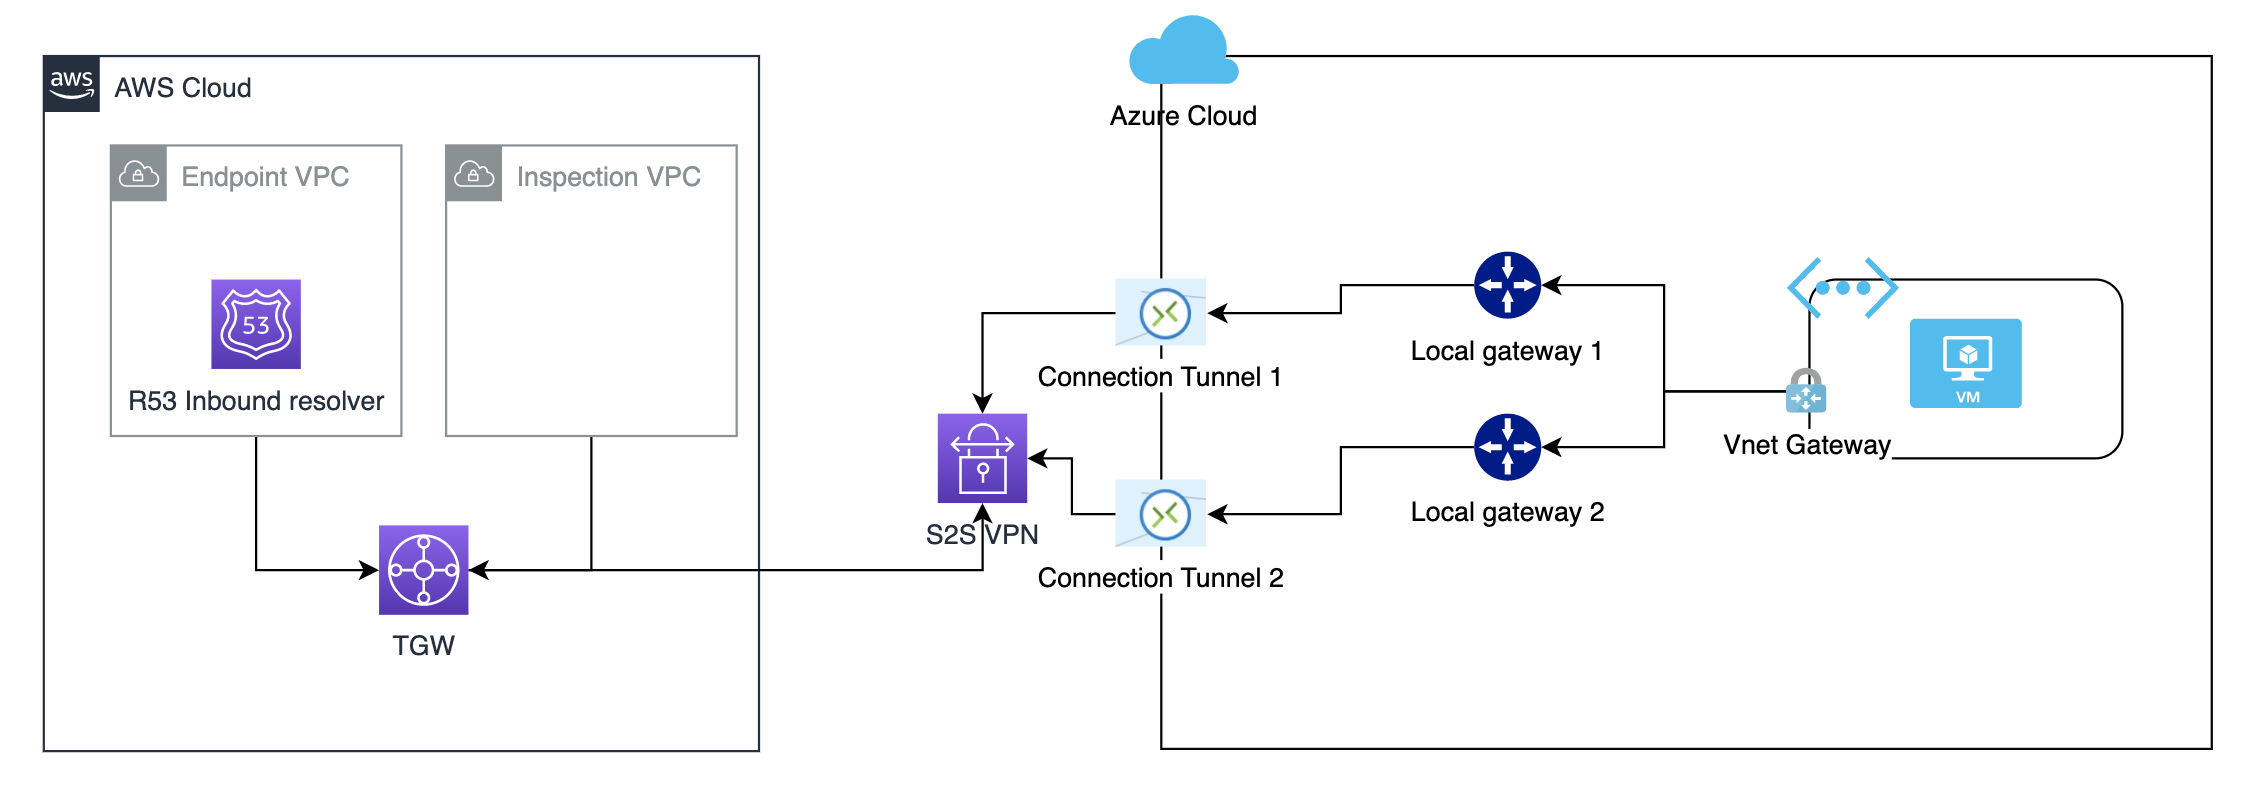
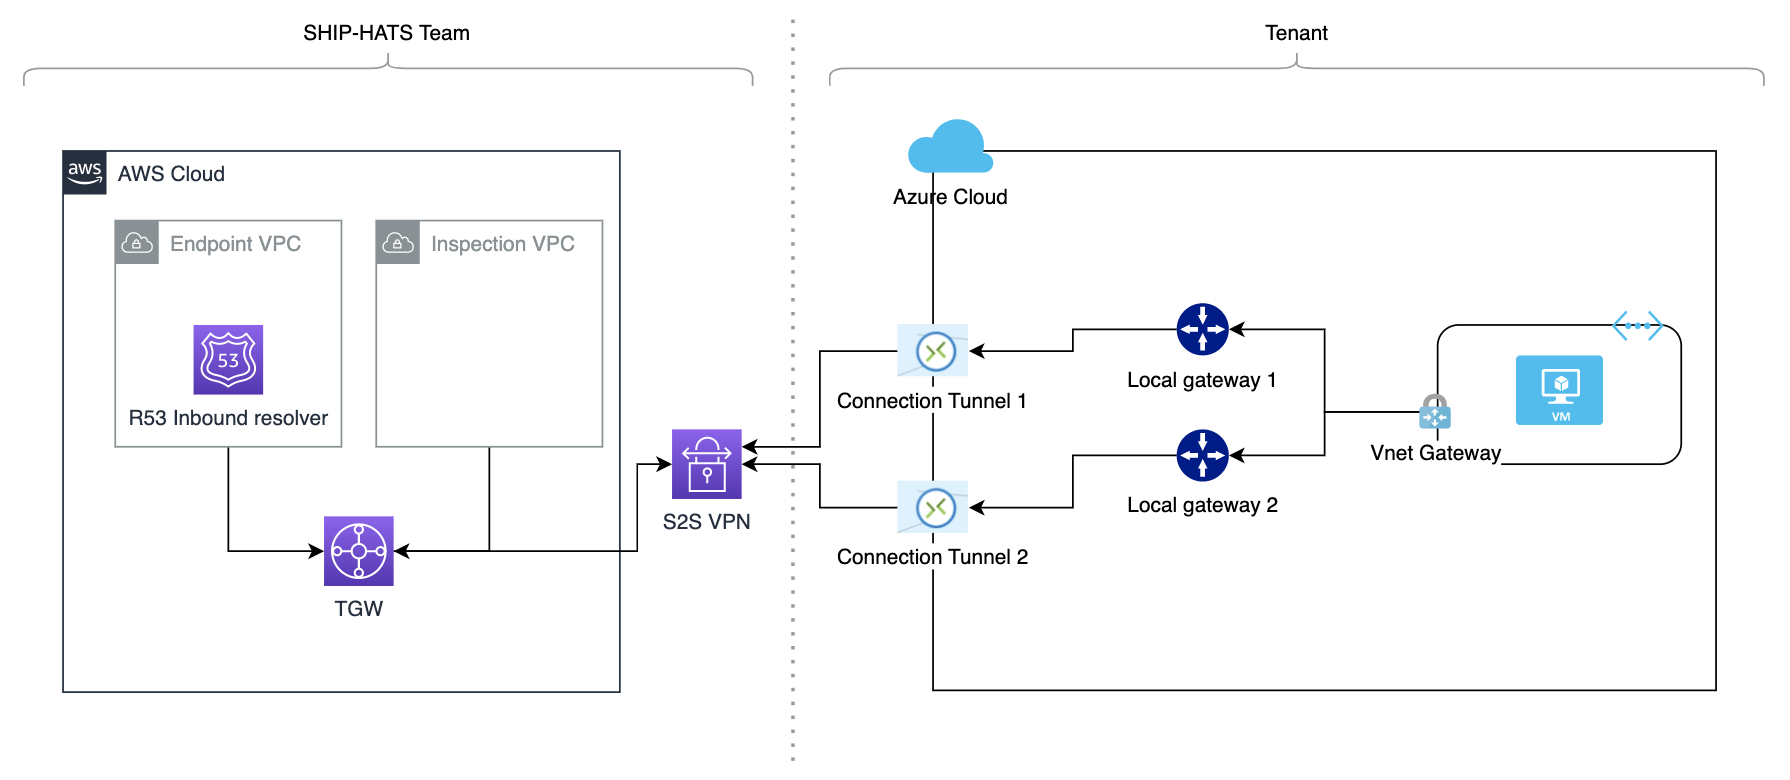
ipsec content - https://jira.ship.gov.sg/browse/CODEX-163910

diff --git a/ipsec-tunnel-copy.md b/ipsec-tunnel-copy.md
@@ -5,37 +5,102 @@ You can connect to SHIP-HATS using one of the following methods based on your se
 - [AWS VPC Endpoint](aws-vpc-endpoint)
 - [IPsec Tunnel](#prerequisites)
 
+## Audience
+
+The following topic is intended for Tenants on Azure to establish connectivity to AWS GCC 2.0 via a site-to-site VPN Tunnel.
 
 ## Prerequisites
 
-Gather the following details:
+Provide the following details:
 
 - Tenant's Azure private CIDR range
-- VNet Gateway's public IP (created on step 1b)
+- VNet Gateway's public IP address (created on step 1b)
 
-![](./images/aws-azure-setup.png)
+![Azure setup](./images/aws-azure-setup.png)
 
 
 ## Setup S2S VPN
 
-1. Request for a blank VNet
+1. Provision a blank VNet
+    - You may have to request extremax for this.
     - VNet must not have a VNet gateway attached in our setup because the default setup by extremax has one attached and not visible to us. 
-    - A required /28 subnet is required for the gateway subnet, ensure there is sufficient addresses for other usage
-1. (Azure)Create VNet Gateway w/ attached pub IP
-    - Request extremax to create a public ip and attach it to a new VNet Gateway with below requirements:
+    - A required /28 subnet is required for the gateway subnet. Ensure that there are sufficient addresses for other usage.
+1. Provision and configure a Virtual Network gateway: Raise a request to extremex to:
+    1. Create a VNet gateway in the blank VNet
+        
+    ![](./images/create-vnet-gateway.png ':size=80%')</kbd>
 
+    1. Create a public IP and attach it to a new VNet Gateway
+    
+    ![](./images/review-vnet-gateway.png ':size=80%')</kbd>
+
+**SHIP-HATS team will configure a VPN at AWS GCC 2.0 and share the VPN configuration file.**
+
+## Create Local Network Gateways
+
+1. Take note of the Virtual Private Gateway IPs from the shared configuration file: 
+    - IPSec Tunnel #1 - Outside IP Addresses - Virtual Private Gateway: 
+        ![](./images/ipsec-tunnel1.png ':size=80%')
+    - IPSec Tunnel #2 - Outside IP Addresses - Virtual Private Gateway:
+        ![](./images/ipsectunnel2.png ':size=80%')
+1. Request extremex to create two Local gateways, one for each of the above Virtual Private Gateway IPs:
+    - In the **IP Address** field, enter the Virtual Private Gateway IP from above.
+    - In the **Address Space** field, enter GCC 2.0 AWS PROD vpc CIDR.
+        - SHIP GCC 2.0 UAT: 100.0.4.0/22
+        - SHIP GCC 2.0 PROD: 100.10.4.0/22
+    
+![](./images/create-Local-network.png ':size=80%')
+
+## Create Connections
+
+Create two connections - one for each IPsec tunnel. 
+
+1. Navigate to **AWSVNetGateway** > **Connections**, and then click **Add**.
+1. In the **Name** field, select the *Local network gateway* from the dropdown list corresponding to IPsec Tunnel 1.
+1. In the **Connection type**, select **Site-to-site (IPsec)**.
+1. In the **Shared key (PSK)** field, fetch the value of pre-shared key corresponding to IPsec Tunnel 1 from the configuration file provided by the SHIP-HATS team.
+1. For **IKE Protocol**, select **ikev2**. 
+
+Repeat the above steps to create a second connection. Make sure that you select the Local network gateway **Name** and **Shared key (PSK)** corresponding to IPsec Tunnel 2.
+
+![](./images/add-connection.png ':size=60%')
+
+**SHIP-HATS team will provide DNS Resolver IPs for the tenants to configure.**
+
+
+## Set up custom dns server
+
+### To configure custom dns servers on VM that hosts the GitLab runner, complete the following steps:
+
+1. Log in to the VM that hosts the GitLab runner.
+1. Click **Network interface** 
+1. Under **DNS server**, add the IP address provided by SHIP-HATS team.
+1. Click **Add DNS Server**.  
+
+    Added DNS server IPs will appear under **Applied DNS servers**.
+
+    ![](./images/dns-server.png ':size=100%')
+
+> **Note:** Currently private resolvers for Azure DNS is not supported in Singapore region (correct as of August 1, 2022). As a workaround, use one runner with above config to get resources from SHIP-HATS and pass artifacts to another that can resolve tenant's azure resources.
+
+
+## What's Next
+
+- [Set up GitLab Runners](gitlab-runners)
+
+<!--
 ## (AWS)Create CGW, VPN connection
 1. Log in to the target AWS Account.
 1. Create a CGW based on VNet Gateway attached IP (step b)
 1. Create a VPN Connection with below requirements: 
-    - Use CGW (step c 2), change routing options to static, and indicate local cidr of azure VNet
+    - Use CGW (step c 2), change routing options to static, and indicate Local cidr of azure VNet
     - Choose transit gateway as target type
 1. Once vpn is created download configuration:
+-->
+<!--## Create Local gateway
 
-## Create Local gateway
-
-1. Request a local gateway from extremax using downloaded configuration.
-    1. take note of the VPG ip, use the ip on requesting local gateway (request 1 local gateway using the virtual private gateway ip in the textfile. In this case it will be 52.74.6.122)
+1. Request a Local gateway from extremax using downloaded configuration.
+    1. take note of the VPG ip, use the ip on requesting Local gateway (request 1 Local gateway using the virtual private gateway ip in the textfile. In this case it will be 52.74.6.122)
     1. For address space, input aws vpc CIDR.
 
 For reference:
@@ -43,34 +108,18 @@ For reference:
 - SHIP GCC2 PROD: 100.10.4.0/22
 
 1. Repeat the same steps for the other tunnel.
+-->
 
-## Create Connection
-
-1. Once local gateway is created, use both VNet gateway and local gateway to create the connection
-1. Use IKEv2 as the IKE version, IPsec VPN
-1. Per each connection use the same pre-shared key for each tunnel. (Preshared key should be included with the downloaded config file )
-1. Identify the tgw attachment for the vpn created.
-1. Copy the vpn id. 
-1. Find the tgw attachment using the copied vpn id, add a name tag to easily identify the tgw attachment. 
-
+<!--
 ## Update TGW route table 
 
-TGW route tables - add a route to tgw attachment based on azure VNet's local IP
+TGW route tables - add a route to tgw attachment based on azure VNet's Local IP
 CIDR: provided tenant's private IP CIDR
 Attachment choose the attachment identified. 
 
 ## Setup R53 Inbound Resolver
 
-1. Create Security Group - should contain inbound rule on port 53 based on azure VNet's local IP
+1. Create Security Group - should contain inbound rule on port 53 based on azure VNet's Local IP
 1. Create Inbound resolver on endpoint vpc
 
-## Setup of custom dns server on tenant's runner
-
-1. Once resolver is created, add the ip provided to azure VM's custom dns server (can be reached by clicking VM's network interface > dns servers)
-    > **Note:** currently private resolvers for Azure dns is not supported in singapore region(correct as of Aug 1, 2022), to get around this, please use one runner with above config to get resources from ship and pass artifacts to another that can resolve tenant's azure resources.
-1. Add Inbound rules to VPC endpoint sg for tenant's private CIDRs. 
-
-
-## What's Next
-
-- [Set up GitLab Runners](gitlab-runners)
+-->

diff --git a/ipsec-tunnel.md b/ipsec-tunnel.md
@@ -1,12 +1,90 @@
-# IPSec Tunnel
+# IPsec Tunnel
 
-Coming soon!
+You can connect to SHIP-HATS using one of the following methods based on your setup:
 
-<!--
+- [AWS VPC Endpoint](aws-vpc-endpoint)
+- [IPsec Tunnel](#audience)
+
+## Audience
+
+The following topic is intended for tenants on Azure to establish connectivity to AWS GCC 2.0 via a site-to-site VPN Tunnel.
+
+
+
+![Azure setup](./images/aws-azure-setup.png)
+
+
+## Setup S2S VPN
+
+1. Provision a blank VNet and a gateway subnet within the blank VNet.
+    - VNet must not have any VNet gateway attached that is not visible to us.
+    - A gateway subnet of /28 is required. Ensure that there are sufficient addresses for other usage.
+1. Provision and configure a Virtual Network gateway: 
+    1. Create a VNet gateway in the blank VNet.
+        
+    ![](./images/create-vnet-gateway.png ':size=80%')</kbd>
+
+    1. Create a public IP and attach it to a new VNet Gateway.
+    
+    ![](./images/review-vnet-gateway.png ':size=80%')</kbd>
+1. Provide following details to the SHIP-HATS team:
+    - Your target Azure Virtual Network CIDR range
+    - VNet Gateway's public IP address created in previous step
+
+SHIP-HATS team will configure a VPN at AWS GCC 2.0 and share the VPN configuration file.
+
+## Create Local Network Gateways
+
+1. Make a note of the Virtual Private Gateway IPs from the *VPN configuration* file shared by the SHIP-HATS team: 
+    - Navigate to **IPsec Tunnel #1** > **Outside IP Addresses** > **Virtual Private Gateway** 
+        ![](./images/ipsec-tunnel1.png ':size=80%')
+    - Navigate to **IPsec Tunnel #2** > **Outside IP Addresses** > **Virtual Private Gateway**
+        ![](./images/ipsectunnel2.png ':size=80%')
+1. Provision two Local gateways, one for each of the above Virtual Private Gateway IPs:
+    - In the **IP Address** field, enter the Virtual Private Gateway IP from above.
+    - In the **Address Space** field, enter the SHIP-HATS GCC 2.0 AWS PROD VPC CIDR: *100.10.4.0/22*. 
+1. Click **Review + create**.  
+
+    Your local network gateways are created.
+
+    ![](./images/create-Local-network.png ':size=80%')
+
+## Create Connections
+
+Create two connections - one for each IPsec tunnel. 
+
+1. Navigate to **AWSVnetGateway** > **Connections**, and then click **Add**.
+1. In the **Name** field, select the *Local network gateway* from the dropdown list corresponding to IPsec Tunnel 1.
+1. In the **Connection type**, select **Site-to-site (IPsec)**.
+1. In the **Local network gateway** field, select the gateway for the IPsec Tunnel 1. 
+1. In the **Shared key (PSK)** field, copy the value of **Pre-Shared Key** corresponding to IPsec Tunnel 1 from the *VPN configuration* file provided by the SHIP-HATS team.
+1. For **IKE Protocol**, select **ikev2**. 
+1. Select **OK**.  
+
+    This creates your connection. The new connection appears in the **Connections** grid. 
+
+    Repeat the above steps to create a second connection. Make sure that you select values in the **Name**, **Local network gateway**, and **Shared key (PSK)** fields corresponding to IPsec Tunnel 2.
+    
+![](./images/add-connection.png ':size=60%')
+
+## Set up custom dns server
+
+
+### To configure custom dns servers on VM that hosts the GitLab runner, complete the following steps:
+
+1. Request the SHIP-HATS team for DNS Resolver IPs. 
+1. Log in to Azure portal, and then select **Virtual machines**. 
+1. Navigate to the virtual machine that hosts the GitLab runner, and then click **Networking**.
+1. Select the Network interface. 
+1. Click **Settings** > **DNS servers**.
+1. Click **Custom**, and then add the IP address provided by the SHIP-HATS team.
+1. Click **Save**.  
+
+    Added DNS server IPs will appear under **Applied DNS servers**.
+
+    ![](./images/dns-server.png ':size=100%')
+
 
 ## What's Next
 
 - [Set up GitLab Runners](gitlab-runners)
-
-
--->
